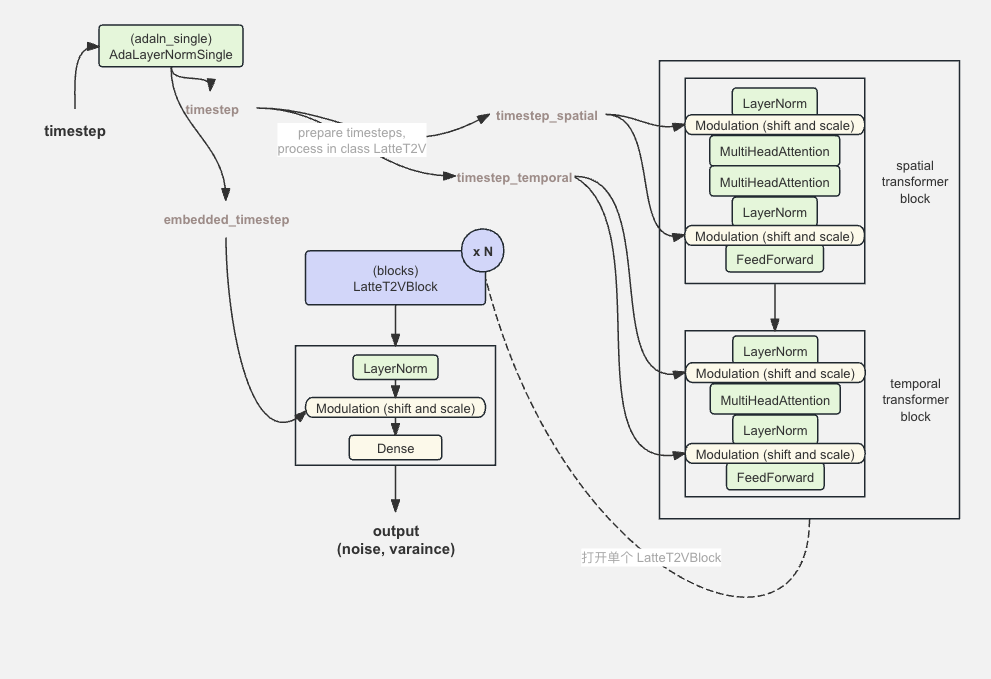
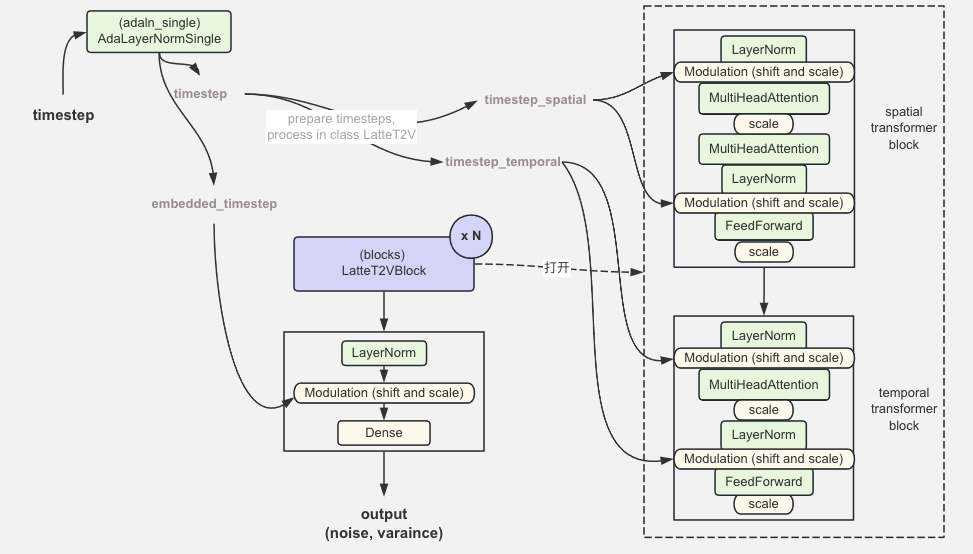
update latte transformer block implement

diff --git a/aigc/opensora-pku_from_scratch/latte_transformerblock_implement.md b/aigc/opensora-pku_from_scratch/latte_transformerblock_implement.md
@@ -1,0 +1,336 @@
+# Latte BasicTransformerBlock MindSpore 实现
+
+本文介绍基于 Mindspore 在 Ascend 910* 上实现 Latte 网络中的单个 transformer block，主要代码参考自mindone套件[opensora-pku](https://github.com/mindspore-lab/mindone/tree/master/examples/opensora_pku/opensora/models/diffusion/latte)里的 Latte 实现。
+
+## 1. 视觉类 transformer block 简介
+
+Transformer 在自然语言处理（NLP）领域取得了巨大成功，[Vision Transformers (ViT)](https://arxiv.org/abs/2010.11929) 直接将Transformer架构应用于图像处理任务，开启了 transformer 架构在计算机视觉领域更广泛的应用。[Diffusion Transformers (DiT)](https://arxiv.org/abs/2212.09748) 架构基于 ViT，把 transformer 结构应用到扩散生成领域，并通过 adaptive layer norm（adaLN）, adaLN-Zero 等 设计使得模型的 transformer 块能有效利用条件信息。 PixArt-arpha 从降低训练成本的方向改进基于 transformer 的文生图扩散模型，改进点之一为 transformer block 使用 adaLN-single 降低参数量。上述 3 个模型的 transformer block 结构对比可参考下图。
+
+<p align = "center">    
+<img src="./imgs/vit_dit_pixart_transformer_block.png"/>
+</p>
+<p align="center">
+  <em> the transformer block of (a) ViT, (b) DiT and (c) pixart-arpha </em>
+</p>
+
+Latte 为基于 transformer 骨干的隐空间视频扩散生成模型，视频数据对比图像数据多了时间维度特征。 Latte 针对骨干部分提出 4 种设计以提取视频的时间、空间特征。论文中的结构图如下，前两种变体类似，均使用单一的 transformer block 学时间与空间信息，即图中的 Spatial 与 Temporal 都是独立的 transformer block。后两种均修改 tranformer block 内部结构，多头注意力模块（MHA）先后处理空间时间，或各自处理空间时间再融合，即时空信息处理均在同一个 transformer block 内完成。下图来自 latte 原论文 4 种变体的结构图，其中一个橙色的 block 即为一个 transformer block。
+
+<p align = "center">    
+<img src="./imgs/latte_paper_transformer_block.png" />
+</p>
+<p align="center">
+  <em> latte 4 种变体，一个橙色块是一个 transformer block</em>
+</p>
+
+## 2. latte transformer block Mindspore 实现
+
+OpenSora-PKU 的 latte 主要采用了上述第一种变体，空间、时间特征由单一的 transformer block 处理，顺序采用空间块、时间块交错设计。默认配置下，单个 transformer block 采用 PixArt-arpha 提出的 adaLN-single 作为归一化层，讲解参考讲解[自适应归一化层 MindSpore 实现](./latte_adalayernorm_implement.md)。
+
+下图展示 OpenSora-PKU 的 Latte 默认配置下，空间 transformer block 与时间 transformer block 的具体结构，代码实现将按照图示结构实现。
+
+<p align = "center">    
+<img src="./imgs/latte_transformer_block.png" width=60% />
+</p>
+<p align="center">
+  <em> OpenSora-PKU/latteT2V basic transformer blocks </em>
+</p>
+
+备注：TransformerBlocks 中的归一化层除了 `ada_norm_single` 还可以使用其他 如 'layer_norm', 'ada_norm', 'ada_norm_zero', 'ada_norm_single', mindone 仓完整版实现中可通过`norm_type` 控制，对应 block 内的计算也会有所调整。mindone 仓的 TransformerBlocks 还支持 [GLIGEN: Open-Set Grounded Text-to-Image Generation](https://arxiv.org/abs/2301.07093)方法, 通过 TransformerBlocks 初始化参数 `attention_type = gated` 打开，并在`construct` 的入参： `cross_attention_kwargs` 字典里的`gligen_kwargs["objs"]` 传递定位指令（生成图片/视频的附加信息），使得 GLIGEN Control 生效。
+
+本文只展示了`norm_type="ada_norm_single"` 以及 `attention_type: str = "default"` 的实现。
+
+## 2.1 spatial transformer block
+
+空间 block : Norm + MultiHeadAttention + Norm + MultiHeadAttention + FeedFoward，其中第一个 MHA 为 self-attention，第二个 MHA 为 cross-attention，文本的 hidden_states 也参与计算。`construct` 的输入`timestep` 通过 adaLN-signle 归一化为模型注入时间戳条件。
+
+与处理图像数据的 2d transformer block 不同，视频的 transformer block 两个 MHA 模块之前没有做 layernorm。
+
+备注：归一化层、注意力机制层的实现可参考 [自适应归一化层 MindSpore 实现](./latte_adalayernorm_implement.md), [注意力模块 MindSpore 实现]() （TODO）。 
+
+
+```python
+from typing import Any, Dict, Optional
+import mindspore as ms
+from mindspore import nn, ops
+
+# clone mindone, cd examples/opensora_pku
+from opensora.models.diffusion.latte.modules import LayerNorm, MultiHeadAttention, FeedForward
+
+class BasicTransformerBlock(nn.Cell):
+    r"""
+    A basic Transformer block. for spatial_block
+    """
+
+    def __init__(
+        self,
+        dim: int,
+        num_attention_heads: int,
+        attention_head_dim: int,
+        dropout=0.0,
+        cross_attention_dim: Optional[int] = None,
+        activation_fn: str = "geglu",
+        attention_bias: bool = False,
+        only_cross_attention: bool = False,
+        double_self_attention: bool = False,
+        upcast_attention: bool = False,
+        norm_elementwise_affine: bool = True,
+        norm_type: str = "ada_norm_single",  # 'ada_norm', 'ada_norm_zero', 'ada_norm_single'
+        norm_eps: float = 1e-5,
+        final_dropout: bool = False,
+        attention_type: str = "default", #  "default", "gated", "gated-text-image"
+        enable_flash_attention: bool = False,
+    ):
+        super().__init__()
+        self.only_cross_attention = only_cross_attention
+
+        self.use_ada_layer_norm_single = norm_type == "ada_norm_single"
+        assert self.use_ada_layer_norm_single, "NotImplementedError: please refer to the mindone OpenSora-PKU repo"
+
+        self.norm1_ln = LayerNorm(dim, elementwise_affine=norm_elementwise_affine, eps=norm_eps)
+
+        # 1. Self-Attn
+        self.attn1 = MultiHeadAttention(
+            query_dim=dim,
+            heads=num_attention_heads,
+            dim_head=attention_head_dim,
+            dropout=dropout,
+            bias=attention_bias,
+            cross_attention_dim=cross_attention_dim if only_cross_attention else None,
+            upcast_attention=upcast_attention,
+            enable_flash_attention=enable_flash_attention,
+        )
+
+        # 2. Cross-Attn
+        if cross_attention_dim is not None or double_self_attention:
+            self.norm2_ln = LayerNorm(dim, elementwise_affine=norm_elementwise_affine, eps=norm_eps)
+            self.attn2 = MultiHeadAttention(
+                query_dim=dim,
+                cross_attention_dim=cross_attention_dim if not double_self_attention else None,
+                heads=num_attention_heads,
+                dim_head=attention_head_dim,
+                dropout=dropout,
+                bias=attention_bias,
+                upcast_attention=upcast_attention,
+                enable_flash_attention=enable_flash_attention,
+            )  # is self-attn if encoder_hidden_states is none
+        else:
+            self.norm2 = None
+            self.attn2 = None
+
+        # 3. Feed-forward
+        self.norm3 = LayerNorm(dim, elementwise_affine=norm_elementwise_affine, eps=norm_eps)
+        self.ff = FeedForward(
+            dim,
+            dropout=dropout,
+            activation_fn=activation_fn,
+            final_dropout=final_dropout,
+        )
+
+        # Scale-shift for PixArt-Alpha.
+        if self.use_ada_layer_norm_single:
+            self.scale_shift_table = ms.Parameter(ops.randn(6, dim) / dim**0.5)
+
+        # let chunk size default to None
+        self._chunk_size = None
+        self._chunk_dim = 0
+
+    def construct(
+        self,
+        hidden_states: ms.Tensor,
+        attention_mask: Optional[ms.Tensor] = None,
+        encoder_hidden_states: Optional[ms.Tensor] = None,
+        encoder_attention_mask: Optional[ms.Tensor] = None,
+        timestep: Optional[ms.Tensor] = None, 
+        cross_attention_kwargs: Dict[str, Any] = None,
+        class_labels: Optional[ms.Tensor] = None,
+    ) -> ms.Tensor:
+        
+        # 1. Retrieve lora scale.
+        lora_scale = cross_attention_kwargs.get("scale", 1.0) if cross_attention_kwargs is not None else 1.0
+        
+        # Notice that normalization is always applied before the real computation in the following blocks.
+        batch_size = hidden_states.shape[0]
+        gate_msa, shift_mlp, scale_mlp, gate_mlp = None, None, None, None
+
+        shift_msa, scale_msa, gate_msa, shift_mlp, scale_mlp, gate_mlp = (
+            self.scale_shift_table[None] + timestep.reshape(batch_size, 6, -1)
+        ).chunk(6, axis=1)
+        norm_hidden_states = self.norm1_ln(hidden_states)
+        norm_hidden_states = norm_hidden_states * (1 + scale_msa) + shift_msa
+            
+        # 2. self-Attention
+        attn_output = self.attn1(
+            norm_hidden_states,
+            encoder_hidden_states=encoder_hidden_states if self.only_cross_attention else None,
+            attention_mask=attention_mask,
+            **cross_attention_kwargs,
+        )
+        
+        attn_output = gate_msa * attn_output
+        hidden_states = attn_output + hidden_states
+        if hidden_states.ndim == 4:
+            hidden_states = hidden_states.squeeze(1)
+
+        # 3. Cross-Attention
+        if self.attn2 is not None:
+
+            # norm_hidden_states = self.norm2_ln(hidden_states)
+            # use_ada_layer_norm_single, for PixArt norm2 isn't applied here
+            norm_hidden_states = hidden_states
+
+            attn_output = self.attn2(
+                norm_hidden_states,
+                encoder_hidden_states=encoder_hidden_states,
+                attention_mask=encoder_attention_mask,
+                **cross_attention_kwargs,
+            )
+            hidden_states = attn_output + hidden_states
+
+        # 4. Feed-forward
+        # use_ada_layer_norm_single
+        norm_hidden_states = self.norm2_ln(hidden_states)
+        norm_hidden_states = norm_hidden_states * (1 + scale_mlp) + shift_mlp
+
+        ff_output = self.ff(norm_hidden_states, scale=lora_scale)
+
+        # use_ada_layer_norm_single
+        ff_output = gate_mlp * ff_output
+
+        hidden_states = ff_output + hidden_states
+        if hidden_states.ndim == 4:
+            hidden_states = hidden_states.squeeze(1)
+
+        return hidden_states
+```
+
+## 2.2 temporal transformer block
+
+时间 transformer block : Norm + MultiHeadAttention + Norm + FeedFoward。 相比空间 transformer block 少了第二个 MHA， 只用了 self-attention 。
+
+
+```python
+class BasicTransformerBlock_(nn.Cell):
+    r"""
+    A basic Transformer block. for temporal_block
+
+    """
+
+    def __init__(
+        self,
+        dim: int,
+        num_attention_heads: int,
+        attention_head_dim: int,
+        dropout=0.0,
+        cross_attention_dim: Optional[int] = None,
+        activation_fn: str = "geglu",
+        attention_bias: bool = False,
+        only_cross_attention: bool = False,
+        double_self_attention: bool = False,
+        upcast_attention: bool = False,
+        norm_elementwise_affine: bool = True,
+        norm_type: str = "ada_norm_single",  # 'layer_norm', 'ada_norm', 'ada_norm_zero', 'ada_norm_single'
+        norm_eps: float = 1e-5,
+        final_dropout: bool = False,
+        attention_type: str = "default", #  "default", "gated", "gated-text-image"
+        enable_flash_attention: bool = False,
+    ):
+        super().__init__()
+        self.only_cross_attention = only_cross_attention
+
+        self.use_ada_layer_norm_single = norm_type == "ada_norm_single"
+        assert self.use_ada_layer_norm_single, "NotImplementedError: please refer to the mindone OpenSora-PKU repo"
+        self.norm1_ln = LayerNorm(dim, elementwise_affine=norm_elementwise_affine, eps=norm_eps)
+
+        self.attn1 = MultiHeadAttention(
+            query_dim=dim,
+            heads=num_attention_heads,
+            dim_head=attention_head_dim,
+            dropout=dropout,
+            bias=attention_bias,
+            cross_attention_dim=cross_attention_dim if only_cross_attention else None,
+            upcast_attention=upcast_attention,
+            enable_flash_attention=enable_flash_attention,
+        )
+
+        self.norm3 = LayerNorm(dim, elementwise_affine=norm_elementwise_affine, eps=norm_eps)
+
+        self.ff = FeedForward(dim, dropout=dropout, activation_fn=activation_fn, final_dropout=final_dropout)
+
+        # Scale-shift for PixArt-Alpha.
+        if self.use_ada_layer_norm_single:
+            self.scale_shift_table = ms.Parameter(ops.randn(6, dim) / dim**0.5)
+            
+        # let chunk size default to None
+        self._chunk_size = None
+        self._chunk_dim = 0
+
+    def construct(
+        self,
+        hidden_states: ms.Tensor,
+        attention_mask: Optional[ms.Tensor] = None,
+        encoder_hidden_states: Optional[ms.Tensor] = None,
+        encoder_attention_mask: Optional[ms.Tensor] = None,
+        timestep: Optional[ms.Tensor] = None,
+        cross_attention_kwargs: Dict[str, Any] = None,
+        class_labels: Optional[ms.Tensor] = None,
+    ) -> ms.Tensor:
+
+        # 1. Retrieve lora scale.
+        lora_scale = cross_attention_kwargs.get("scale", 1.0) if cross_attention_kwargs is not None else 1.0
+
+        # Notice that normalization is always applied before the real computation in the following blocks.
+        batch_size = hidden_states.shape[0]
+        gate_msa, shift_mlp, scale_mlp, gate_mlp = None, None, None, None
+
+        shift_msa, scale_msa, gate_msa, shift_mlp, scale_mlp, gate_mlp = (
+            self.scale_shift_table[None] + timestep.reshape(batch_size, 6, -1)
+        ).chunk(6, axis=1)
+        norm_hidden_states = self.norm1_ln(hidden_states)
+        norm_hidden_states = norm_hidden_states * (1 + scale_msa) + shift_msa
+
+        # 2. Self-Attention
+        norm_hidden_states = self.norm1_ln(hidden_states)
+        attn_output = self.attn1(
+            norm_hidden_states,
+            encoder_hidden_states=encoder_hidden_states if self.only_cross_attention else None,
+            attention_mask=attention_mask,
+            **cross_attention_kwargs,
+        )
+        attn_output = gate_msa * attn_output
+
+        hidden_states = attn_output + hidden_states
+        if hidden_states.ndim == 4:
+            hidden_states = hidden_states.squeeze(1)
+
+        # 3. Feed-forward
+        #use_ada_layer_norm_single:
+        norm_hidden_states = self.norm3(hidden_states)
+        norm_hidden_states = norm_hidden_states * (1 + scale_mlp) + shift_mlp
+
+        ff_output = self.ff(norm_hidden_states, scale=lora_scale)
+
+        #use_ada_layer_norm_single:
+        ff_output = gate_mlp * ff_output
+
+        hidden_states = ff_output + hidden_states
+        if hidden_states.ndim == 4:
+            hidden_states = hidden_states.squeeze(1)
+
+        return hidden_states
+```
+
+# 3. 扩展阅读
+
+本文介绍了 Latte 网络中的单个 transformer block 的 MindSpore 实现。
+
+`LatteT2V` 完整 MindSpore 实现代码可参考 `mindone` 仓： [examples/opensora_pku/opensora/models/diffusion/latte](https://github.com/mindspore-lab/mindone/tree/master/examples/opensora_pku/opensora/models/diffusion/latte)
+
+
+`mindone` 套件仓已兼容 diffusers 库， 图片、视频生成扩散模型更一般的 2d、3d transformer block 实现，SD3-mmdit 使用的 joint transformer block 实现等可参考: [`mindone/diffusers/models/attention.py`](https://github.com/mindspore-lab/mindone/blob/master/mindone/diffusers/models/attention.py)
+
+论文阅读：
+
+- ViT: [An Image is Worth 16x16 Words: Transformers for Image Recognition at Scale](https://arxiv.org/abs/2010.11929)
+- DiT: [Scalable Diffusion Models with Transformers](https://arxiv.org/abs/2212.09748)
+- PIXART-α: [Fast Training of Diffusion Transformer for Photorealistic Text-to-Image Synthesis](https://arxiv.org/abs/2310.00426)
+- Latte: [Latent Diffusion Transformer for Video Generation](https://arxiv.org/abs/2401.03048)

diff --git a/README.md b/README.md
@@ -27,8 +27,8 @@
     - [x] [Latte 简介与 MindSpore 实现](./aigc/opensora-pku_from_scratch/latte_implemented_from_scratch.md)
     - [x] [Latte 条件嵌入层 MindSpore 实现](./aigc/opensora-pku_from_scratch/latte_embedding_modules_implement.md)
     - [x] [自适应归一化层 MindSpore 实现](./aigc/opensora-pku_from_scratch/latte_adalayernorm_implement.md)
-    - [ ] 注意力模块 MindSpore 实现
-    - [ ] Latte BasicTransformerBlock MindSpore 实现
+    - [ ] Latte 注意力模块 MindSpore 实现
+    - [ ] [Latte BasicTransformerBlock MindSpore 实现](./aigc/opensora-pku_from_scratch/latte_transformerblock_implement.md)
     - diffusion 过程
       - [ ] [diffusion 过程定义]
       - [ ] [loss function 实现]

diff --git a/aigc/opensora-pku_from_scratch/latte_adalayernorm_implement.md b/aigc/opensora-pku_from_scratch/latte_adalayernorm_implement.md
@@ -365,7 +365,6 @@ class LatteT2V(...):
 
 
 论文阅读：
-- DiT: https://arxiv.org/pdf/2212.09748
-- PixArt-Alpha: https://arxiv.org/pdf/2310.00426
+- DiT （AdaLN-Zero 在 3.2 小节）: https://arxiv.org/pdf/2212.09748
+- PixArt-Alpha（AdaLN-single 在 2.3 小节）: https://arxiv.org/pdf/2310.00426
 - Latte: https://arxiv.org/pdf/2401.03048
-
